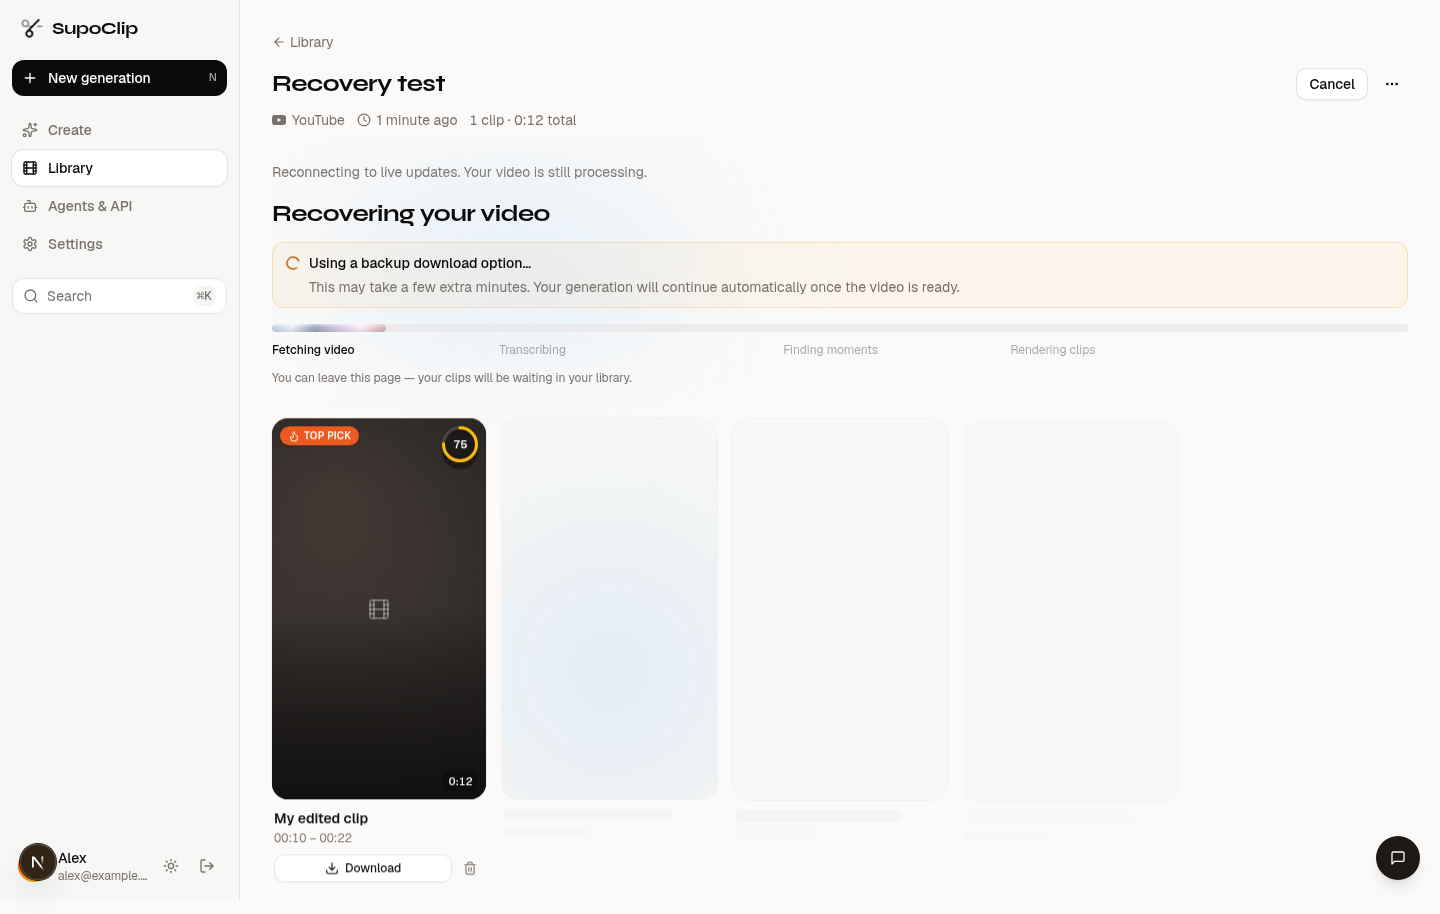
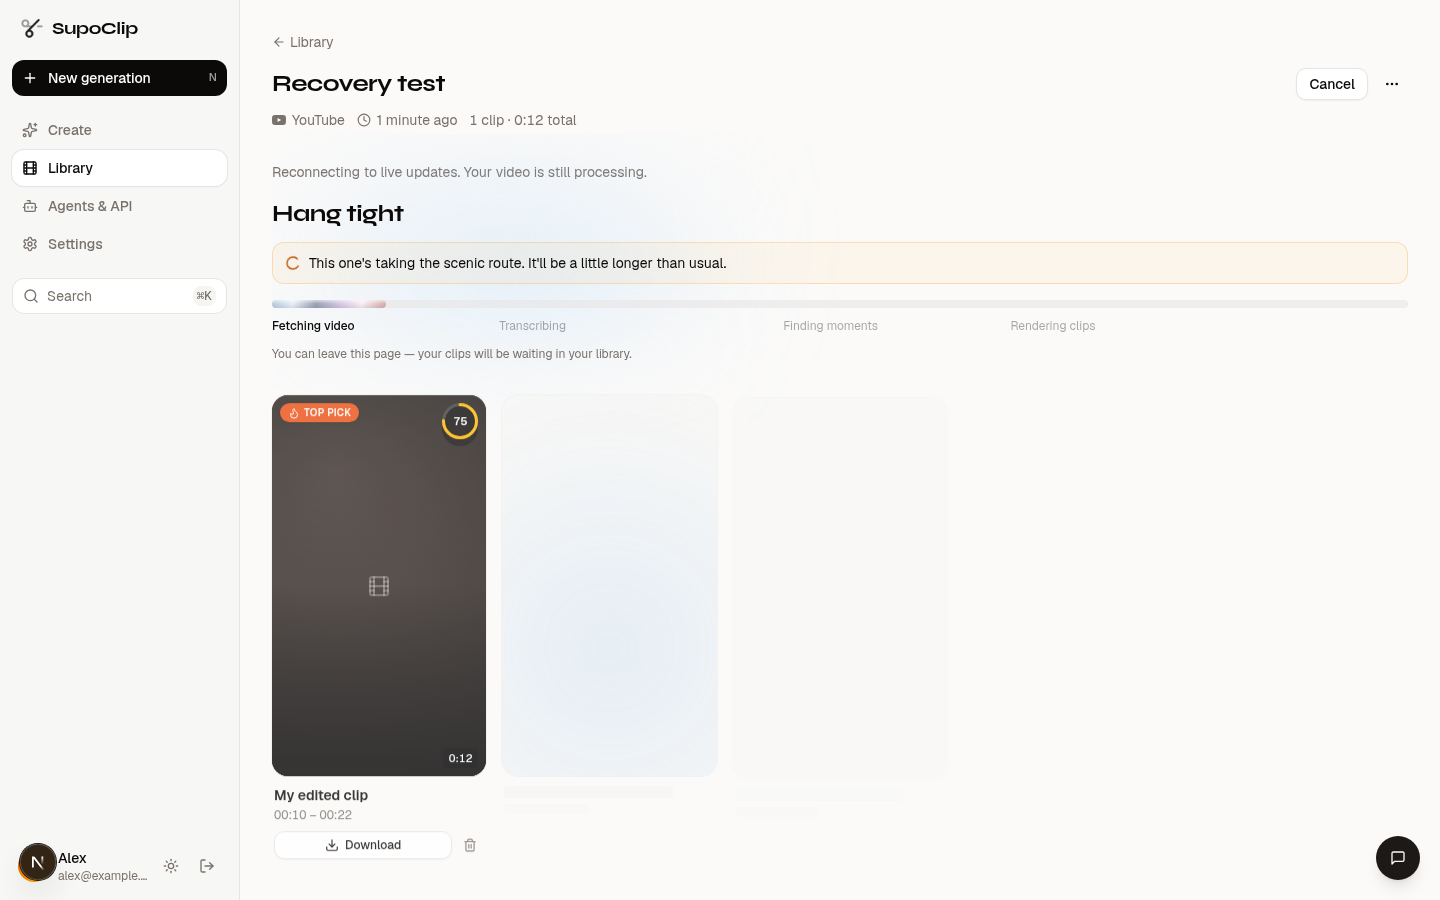
refactor(processing): keep delay notices casual and varied

diff --git a/frontend/src/components/app/clip-wall.test.tsx b/frontend/src/components/app/clip-wall.test.tsx
@@ -1,34 +1,51 @@
 import { render, screen } from "@testing-library/react";
-import { describe, expect, it } from "vitest";
+import { afterEach, describe, expect, it, vi } from "vitest";
+
+import messages from "../../../messages/en/task.json";
 
 import { ProcessingPanel } from "./clip-wall";
 
 describe("download recovery progress", () => {
-  it("explains recovery without inventing an ETA or increasing progress", () => {
+  afterEach(() => vi.restoreAllMocks());
+
+  it("shows a casual delay notice without an ETA, extra details, or increased progress", () => {
+    vi.spyOn(Math, "random").mockReturnValue(0);
     const { rerender } = render(<ProcessingPanel status="processing" progress={65}
       message="Using a backup video download option..." elapsedSeconds={90} />);
 
-    expect(screen.getByText("Recovering your video")).toBeVisible();
-    expect(screen.getByRole("status")).toHaveTextContent("Using a backup download option");
-    expect(screen.getByRole("status")).toHaveTextContent("This may take a few extra minutes");
+    expect(screen.getByText("Hang tight")).toBeVisible();
+    expect(screen.getByRole("status")).toHaveTextContent(messages.recovery.messages.snags);
+    expect(screen.getByRole("status")).not.toHaveTextContent(/download|backup|connection|recovery/i);
     expect(screen.getByRole("progressbar")).toHaveAttribute("aria-valuenow", "65");
     expect(screen.queryByText(/min left|minute left/)).not.toBeInTheDocument();
 
     rerender(<ProcessingPanel status="processing" progress={70}
       message="Creating clip 1/4..." elapsedSeconds={90} />);
     expect(screen.queryByRole("status")).not.toBeInTheDocument();
-    expect(screen.queryByText("Recovering your video")).not.toBeInTheDocument();
+    expect(screen.queryByText("Hang tight")).not.toBeInTheDocument();
     expect(screen.getByText("Less than a minute left")).toBeVisible();
   });
 
   it.each([
-    ["Retrying video download with another connection...", "Trying another connection"],
-    ["Recovering video audio...", "another way to download"],
-    ["Recovering the full video download...", "Downloading the full video"],
-    ["Trying another video download recovery option...", "The previous option did not work"],
-  ])("shows persisted recovery state on first render: %s", (message, text) => {
+    "Retrying video download with another connection...",
+    "Recovering video audio...",
+    "Recovering the full video download...",
+    "Trying another video download recovery option...",
+  ])("shows a generic delay notice for persisted recovery state: %s", (message) => {
     render(<ProcessingPanel status="processing" progress={10} message={message} elapsedSeconds={30} />);
-    expect(screen.getByRole("status")).toHaveTextContent(text);
+    expect(Object.values(messages.recovery.messages)).toContain(screen.getByRole("status").textContent);
+  });
+
+  it("chooses a random sentence once and keeps it through progress and recovery changes", () => {
+    const random = vi.spyOn(Math, "random").mockReturnValue(0.4);
+    const { rerender } = render(<ProcessingPanel status="processing" progress={10}
+      message="Using a backup video download option..." elapsedSeconds={30} />);
+    expect(screen.getByRole("status")).toHaveTextContent(messages.recovery.messages.scenicRoute);
+
+    random.mockReturnValue(0.9);
+    rerender(<ProcessingPanel status="processing" progress={65}
+      message="Trying another video download recovery option..." elapsedSeconds={90} />);
+    expect(screen.getByRole("status")).toHaveTextContent(messages.recovery.messages.scenicRoute);
   });
 
   it("does not expose unknown provider errors or stale recovery while queued", () => {

diff --git a/frontend/src/components/app/clip-wall.tsx b/frontend/src/components/app/clip-wall.tsx
@@ -14,7 +14,7 @@ import { Button } from "@/components/ui/button";
 import { Dialog, DialogContent, DialogDescription, DialogTitle } from "@/components/ui/dialog";
 import { getClipUrl } from "@/lib/clip-actions";
 import { formatClipDuration } from "@/lib/generations";
-import { downloadRecoveryKey } from "@/lib/download-recovery";
+import { DELAY_MESSAGE_KEYS, isDownloadRecovery } from "@/lib/download-recovery";
 import { cn } from "@/lib/utils";
 
 export interface WallClip {
@@ -230,7 +230,7 @@ const STEPS = [
 
 function activeStep(status: string, progress: number, message: string) {
   if (status === "queued") return -1;
-  if (downloadRecoveryKey(message)) return 0;
+  if (isDownloadRecovery(message)) return 0;
   const text = message.toLowerCase();
   if (/render|creating clip|clip \d|saving/.test(text)) return 3;
   if (/analy|moment|segment|ai /.test(text)) return 2;
@@ -273,9 +273,10 @@ export function ProcessingPanel({ status, progress, message, startedAt, elapsedS
   clipProgress?: { current: number; total: number } | null;
 }) {
   const t = useTranslations("task");
+  const [delayMessage] = useState(() => DELAY_MESSAGE_KEYS[Math.floor(Math.random() * DELAY_MESSAGE_KEYS.length)]);
   const ticking = useElapsed(elapsedSeconds === undefined ? startedAt : undefined);
   const elapsed = elapsedSeconds ?? ticking;
-  const recovery = status === "processing" ? downloadRecoveryKey(message) : null;
+  const recovery = status === "processing" && isDownloadRecovery(message);
   const step = activeStep(status, progress, message);
   const clip = clipProgress === undefined ? clipProgressFromMessage(message) : clipProgress;
   const remaining = progress > 0 ? (elapsed * (100 - progress)) / progress : Infinity;
@@ -295,12 +296,9 @@ export function ProcessingPanel({ status, progress, message, startedAt, elapsedS
         {clip && <p className="text-sm tabular-nums text-muted-foreground">{t("clipOf", clip)}</p>}
       </div>
       {recovery && (
-        <div className="mt-3 flex items-start gap-2 rounded-lg border border-amber-500/25 bg-amber-500/5 px-3 py-2.5 text-sm" role="status">
+        <div className="mt-3 flex items-start gap-2 rounded-lg border border-amber-500/25 bg-amber-500/5 px-3 py-2.5 text-sm" role="status" aria-label={t("recovery.heading")}>
           <Loader2 aria-hidden className="mt-0.5 size-4 shrink-0 animate-spin text-amber-700 dark:text-amber-400" />
-          <div>
-            <p className="font-medium">{t(`recovery.${recovery}`)}</p>
-            <p className="mt-1 text-muted-foreground">{t("recovery.explanation")}</p>
-          </div>
+          <p>{t(`recovery.messages.${delayMessage}`)}</p>
         </div>
       )}
       <div className="mt-4 h-2 rounded-full bg-stone-200/60 dark:bg-stone-800/60" role="progressbar" aria-valuemin={0} aria-valuemax={100} aria-valuenow={progress} aria-label={t("percentComplete", { progress })}>

diff --git a/frontend/e2e/retry-generation.spec.ts b/frontend/e2e/retry-generation.spec.ts
@@ -82,9 +82,10 @@ for (const viewport of [{ name: "desktop", width: 1440, height: 900 }, { name: "
     await expect(page.getByRole("progressbar")).toHaveAttribute("aria-valuenow", "10");
 
     current = { ...current, progress_message: "Using a backup video download option..." };
-    const notice = page.getByRole("status").filter({ hasText: "Using a backup download option" });
+    const notice = page.getByRole("status", { name: "Hang tight" });
     await expect(notice).toBeVisible({ timeout: 12_000 });
-    await expect(page.getByText("Recovering your video")).toBeVisible();
+    await expect(page.getByText("Hang tight")).toBeVisible();
+    await expect(notice).not.toContainText(/download|backup|connection|recovery/i);
     await expect(page.getByRole("progressbar")).toHaveAttribute("aria-valuenow", "10");
     await expect(page.getByText(/min left|minute left/)).toHaveCount(0);
 
@@ -96,7 +97,7 @@ for (const viewport of [{ name: "desktop", width: 1440, height: 900 }, { name: "
     }
 
     current = { ...current, progress: 30, progress_message: "Generating transcript..." };
-    await expect(page.getByText("Recovering your video")).toHaveCount(0, { timeout: 12_000 });
+    await expect(page.getByText("Hang tight")).toHaveCount(0, { timeout: 12_000 });
     await expect(notice).toHaveCount(0);
     await expect(page.getByRole("progressbar")).toHaveAttribute("aria-valuenow", "30");
   });

diff --git a/frontend/src/lib/download-recovery.ts b/frontend/src/lib/download-recovery.ts
@@ -1,15 +1,15 @@
 // The backend persists these public messages through the existing progress API.
 // Only known recovery states receive this UI; provider errors stay in the logs.
-const RECOVERY_MESSAGES = {
-  "Retrying video download with another connection...": "connection",
-  "Recovering video audio...": "audio",
-  "Recovering the full video download...": "fullVideo",
-  "Using a backup video download option...": "backup",
-  "Trying another video download recovery option...": "anotherBackup",
-} as const;
+const RECOVERY_MESSAGES = new Set([
+  "Retrying video download with another connection...",
+  "Recovering video audio...",
+  "Recovering the full video download...",
+  "Using a backup video download option...",
+  "Trying another video download recovery option...",
+]);
 
-export function downloadRecoveryKey(message: string) {
-  return Object.hasOwn(RECOVERY_MESSAGES, message)
-    ? RECOVERY_MESSAGES[message as keyof typeof RECOVERY_MESSAGES]
-    : null;
+export const DELAY_MESSAGE_KEYS = ["snags", "hiccup", "scenicRoute", "bumps", "slower"] as const;
+
+export function isDownloadRecovery(message: string) {
+  return RECOVERY_MESSAGES.has(message);
 }

diff --git a/CHANGELOG.md b/CHANGELOG.md
@@ -6,7 +6,7 @@ Add a line here when a pull request changes something a user can see. Use **New*
 
 ## 2026-11-05
 
-- **Improved:** Generations explain when a video download switches to a recovery option and may take longer. The notice survives a page refresh, replaces the time estimate during recovery, and clears when processing continues. ([#336](https://github.com/FujiwaraChoki/supoclip/pull/336))
+- **Improved:** Generations show a short, varied notice when a video takes longer than usual. The notice survives a page refresh, replaces the time estimate during delays, and clears when processing continues. ([#336](https://github.com/FujiwaraChoki/supoclip/pull/336))
 - **New:** A dedicated FAQ lists every supported spoken language and regional variant, with search and answers about language detection, captions, translation limits, and video processing. It is available in all six interface languages and linked from the homepage and footer. ([#334](https://github.com/FujiwaraChoki/supoclip/pull/334))
 - **Under the hood:** Preview deployments use an upload timeout within the hosting platform's supported limit. ([#334](https://github.com/FujiwaraChoki/supoclip/pull/334))
 
